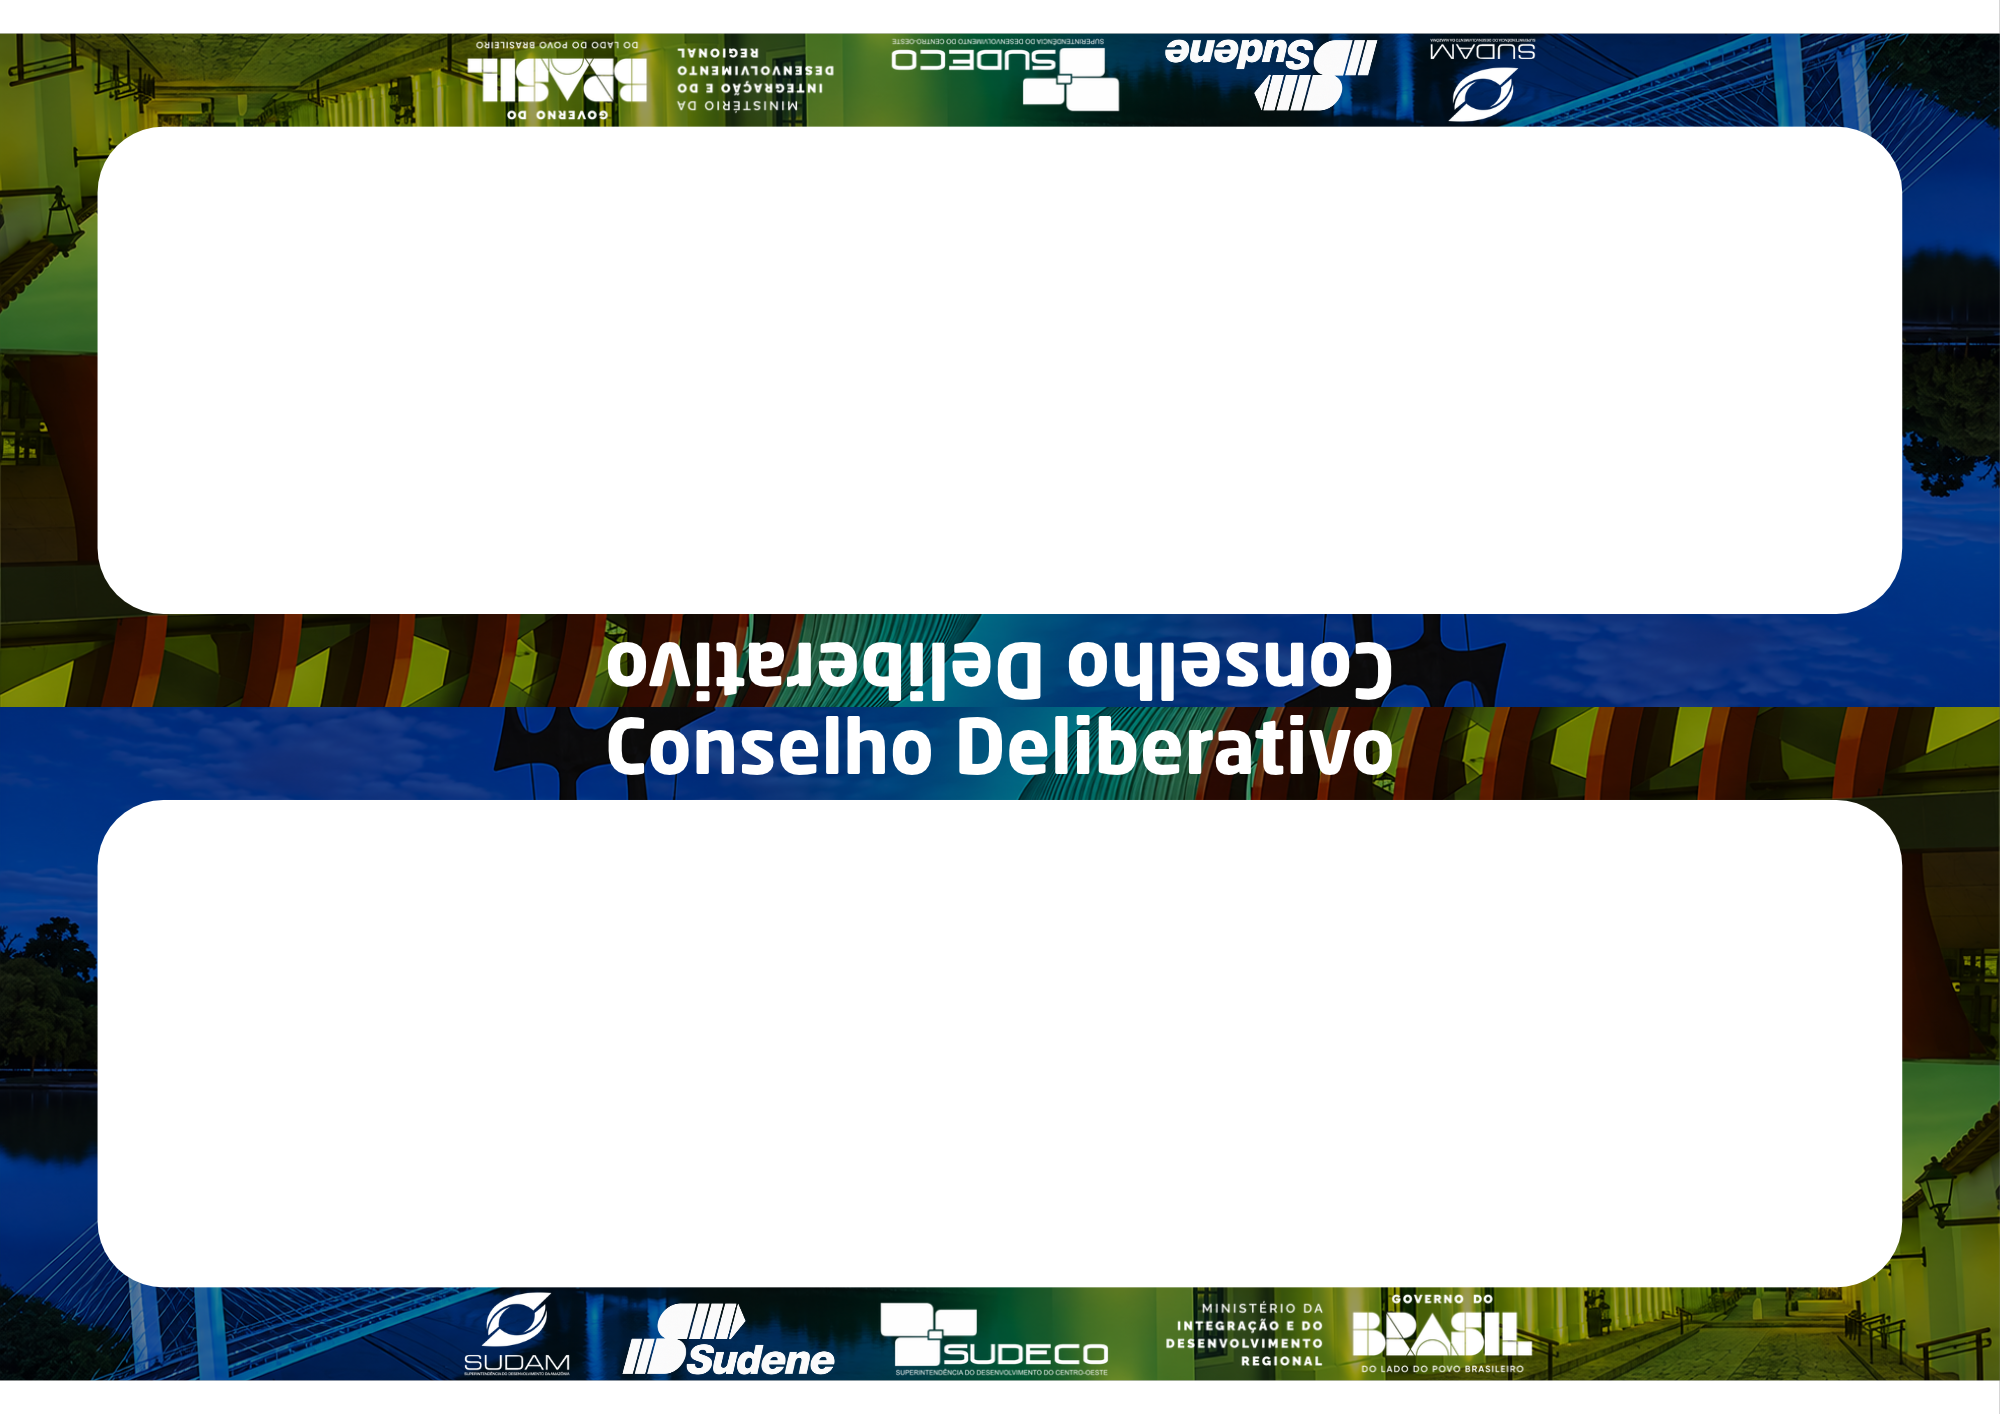
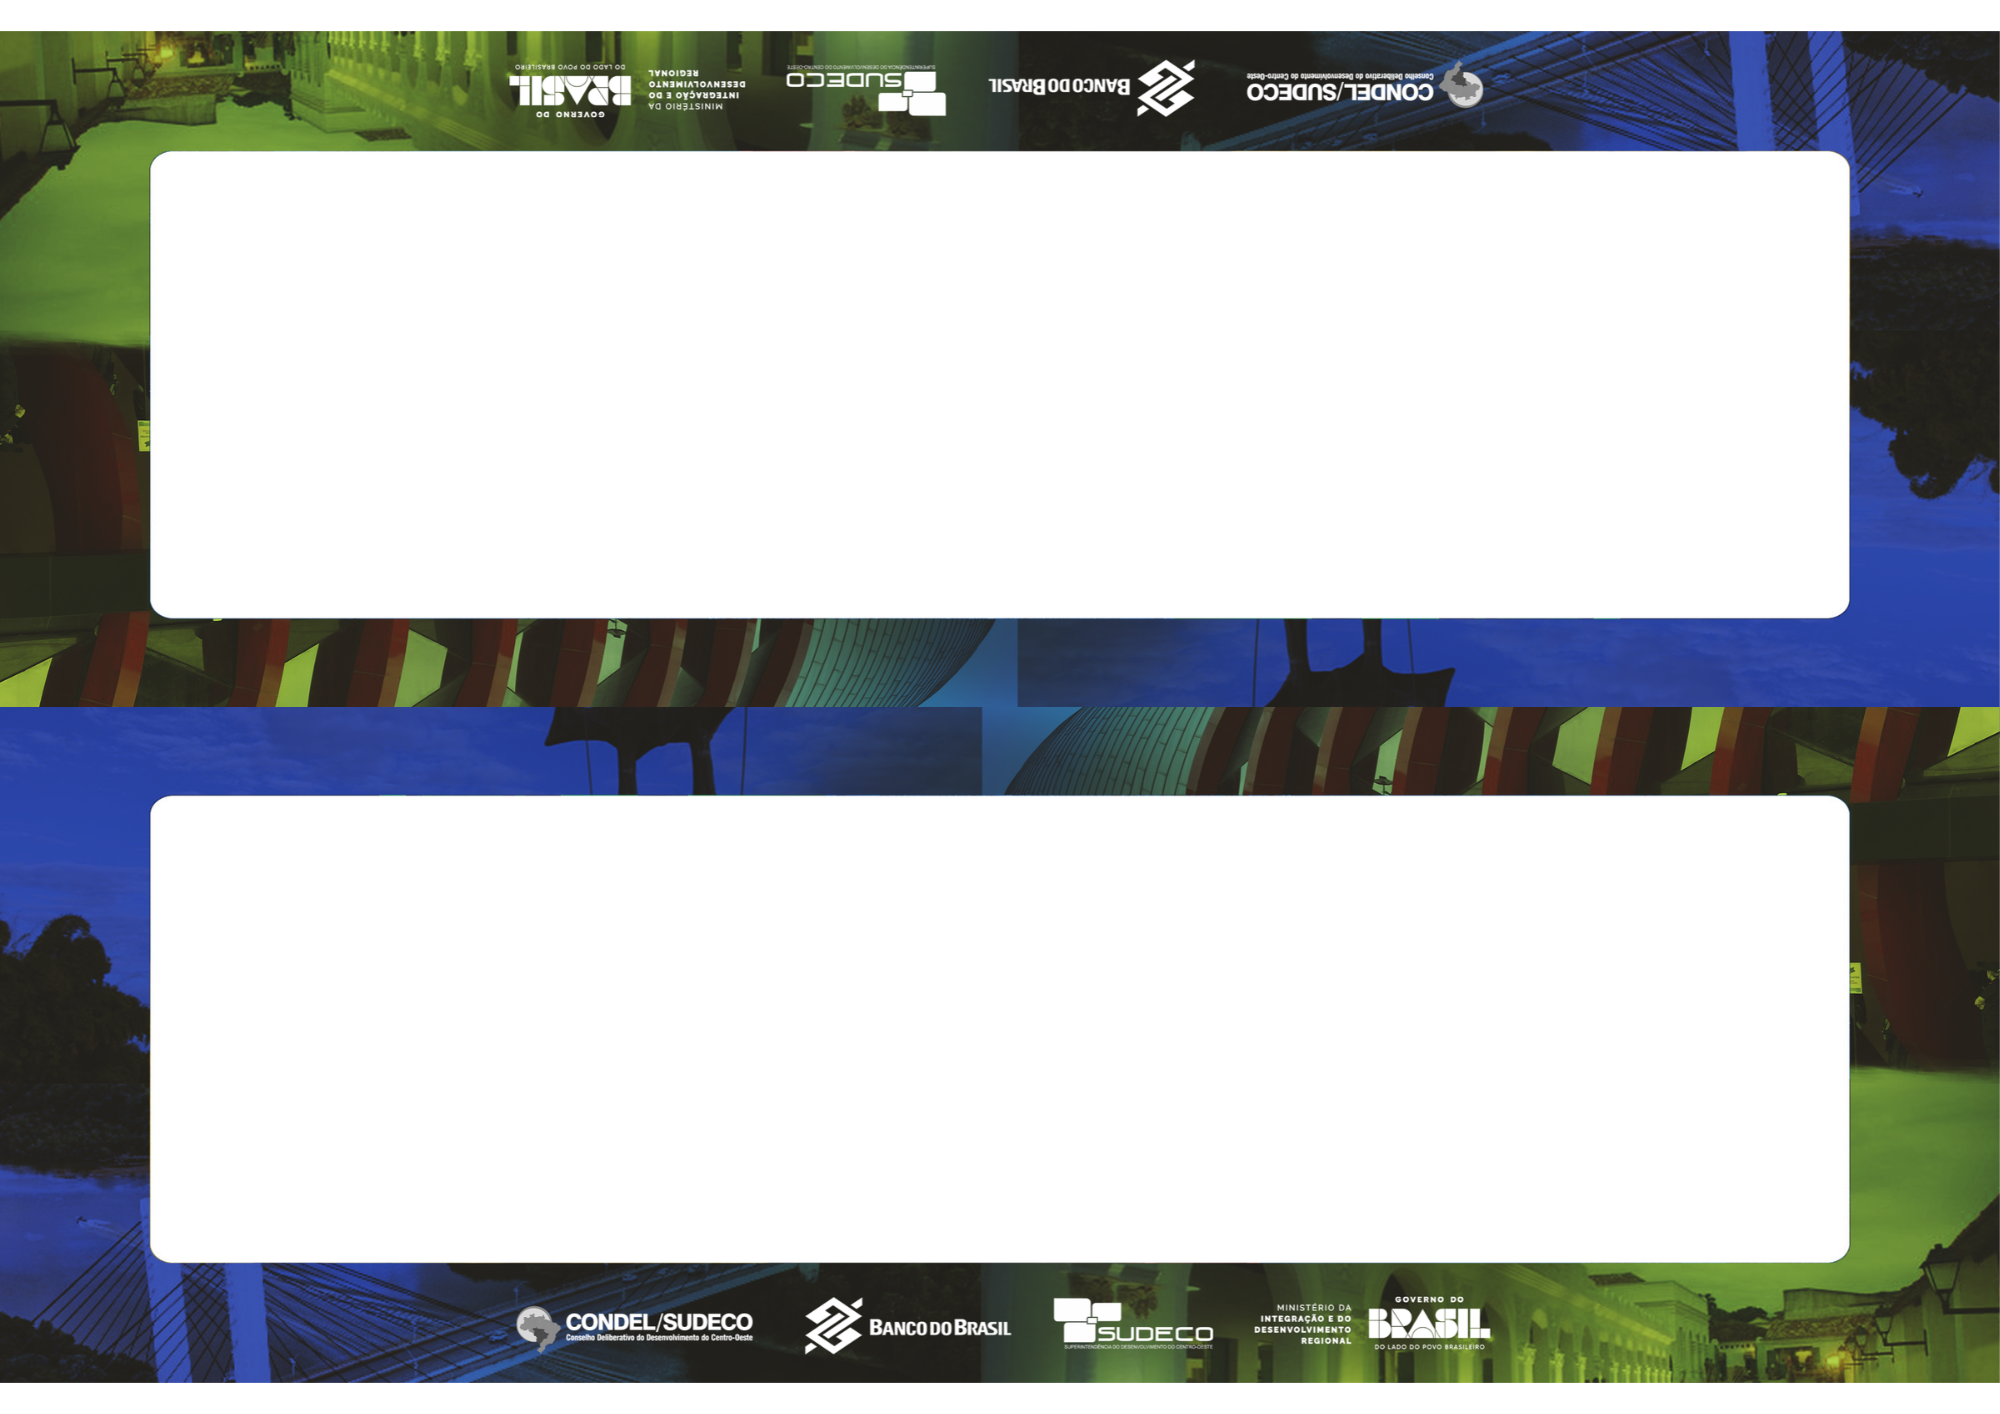
inserção do prisma pequeno da sudeco

diff --git a/service.js b/service.js
@@ -7,16 +7,21 @@ function trocaImagem() {
         sudeco: "./assets/papel/sudeco.png",
         condel: "./assets/papel/condel.png",
         coaride: "./assets/papel/coaride.png",
-        criff: "./assets/papel/criff.png"
+        criff: "./assets/papel/criff.png",
+        sudecoP: "./assets/papel/sudecoP.png"
     };
 
     //esconde o campo Nome da Reunião caso for Sudeco
-    if (evento == 'sudeco') {
+    if (evento == 'sudeco' || evento == 'sudecoP') {
         document.getElementById('divReuniao').style.display = "none"
         document.getElementById('reuniao').value = ''
     } else {
         document.getElementById('divReuniao').style.display = "block"
     }
+
+    //altera o tamanho da div se for imagem na vertical
+    img.style.width = evento === 'sudecoP' ? "210mm" : "297mm";
+    img.style.height = evento === 'sudecoP' ? "296mm" : "210mm";
 
     // aplica imagem de fundo
     img.style.backgroundImage = `url('${fundos[evento]}')`;
@@ -42,19 +47,15 @@ function montaPrisma() {
 
     //altera o tamanho da fonte do nome de acordo com o tamanho do nome
     console.log(name.length)
-    if (name.length > 45) {
-        name1.style.fontSize = "30px"
-        name2.style.fontSize = "30px"
-    } else if (name.length > 35) {
-        name1.style.fontSize = "40px"
-        name2.style.fontSize = "40px"
-    } else if (name.length > 25) {
-        name1.style.fontSize = "50px"
-        name2.style.fontSize = "50px"
-    } else {
-        name1.style.fontSize = "65px"
-        name2.style.fontSize = "65px"
-    }
+    const vertical = evento === "sudecoP";
+    const tamanho = name.length;
+
+    const fontSize = vertical
+        ? (tamanho > 32 ? "30px" : tamanho > 25 ? "40px" : tamanho > 18 ? "50px" : "65px")
+        : (tamanho > 45 ? "30px" : tamanho > 35 ? "40px" : tamanho > 25 ? "50px" : "65px");
+
+    name1.style.fontSize = fontSize;
+    name2.style.fontSize = fontSize;
 
     // limpa textos
     [reuniao1, name1, cargo1, organ1, reuniao2, name2, cargo2, organ2].forEach(el => el.innerText = '');
@@ -68,37 +69,75 @@ function montaPrisma() {
     [organ1, organ2].forEach(el => el.innerText = organ);
 
     // define altura do espaço central
-    const alturas = { sudeco: 155, condel: 110, criff: 110, coaride: 130 };
+    const alturas = { sudeco: 155, condel: 110, criff: 110, coaride: 130, sudecoP: 150 };
     spaceCenter.style.height = alturas[evento] + 'px';
 
 }
 
+
 function generatePrisma() {
     montaPrisma();
+
+    const evento = document.querySelector('input[name="evento"]:checked').value;
     const name = document.getElementById('name').value;
-    const orientation = 'landscape'
+
+    const orientation = evento === "sudecoP" ? "portrait" : "landscape";
+
     const nameFile = `prisma - ${name}.pdf`;
 
     html2pdf().set({
         margin: 0,
         filename: nameFile,
         image: { type: 'png', quality: 1.0 },
-        html2canvas: { scale: 2, scrollX: 0, scrollY: 0, useCORS: true },
-        jsPDF: { unit: 'mm', format: 'a4', orientation }
+        html2canvas: {
+            scale: 2,
+            scrollX: 0,
+            scrollY: 0,
+            useCORS: true
+        },
+        jsPDF: {
+            unit: 'mm',
+            format: 'a4',
+            orientation: orientation
+        }
     }).from(document.getElementById('a4Content')).save();
 }
 
 function printPrisma() {
-    const orientation = 'landscape'
+    const evento = document.querySelector('input[name="evento"]:checked').value;
+
+    const orientation = evento === "sudecoP" ? "portrait" : "landscape";
+
     html2pdf().set({
         margin: 0,
-        filename: 'document.pdf',
         image: { type: 'png', quality: 1.0 },
-        html2canvas: { scale: 2, scrollX: 0, scrollY: 0, useCORS: true },
-        jsPDF: { unit: 'mm', format: 'a4', orientation }
+        html2canvas: {
+            scale: 2,
+            scrollX: 0,
+            scrollY: 0,
+            useCORS: true
+        },
+        jsPDF: {
+            unit: 'mm',
+            format: 'a4',
+            orientation: orientation
+        }
     })
         .from(document.getElementById('a4Content'))
-        .outputPdf('bloburl')
-        .then(pdfUrl => window.open(pdfUrl).print());
+        .toPdf()
+        .get('pdf')
+        .then(pdf => {
+            const pdfUrl = pdf.output('bloburl');
+            const printWindow = window.open(pdfUrl);
+
+            if (printWindow) {
+                printWindow.addEventListener('load', () => {
+                    printWindow.print();
+                });
+            } else {
+                alert('Permita pop-ups para imprimir o documento.');
+            }
+        });
 }
+
 document.addEventListener("load", trocaImagem());

diff --git a/index.html b/index.html
@@ -25,7 +25,10 @@
             <div class="mb-3 mt-2">
                 <label class="form-label fw-bold" for="sudeco"><i class="fa-solid fa-calendar-days"></i> Evento</label>
                 <div>
-                    <input type="radio" name="evento" id="sudeco" value="sudeco" onchange="trocaImagem()" checked>
+                    <input type="radio" name="evento" id="sudecoP" value="sudecoP" onchange="trocaImagem()" checked>
+                    <label class="form-label" for="sudecoP"><i class="fa-solid fa-location-dot"></i> Sudeco Pequeno</label>
+                    &nbsp;
+                    <input type="radio" name="evento" id="sudeco" value="sudeco" onchange="trocaImagem()" >
                     <label class="form-label" for="sudeco"><i class="fa-solid fa-location-dot"></i> Sudeco</label>
                     &nbsp;
                     <input type="radio" name="evento" id="condel" value="condel" onchange="trocaImagem()">

diff --git a/style.css b/style.css
@@ -56,7 +56,7 @@ footer {
 }
 
 #reuniao1, #reuniao2 {
-    font-size: 35px;
+    font-size: 30px;
     font-weight: bold;
     padding: 0;
     line-height: 100%;
